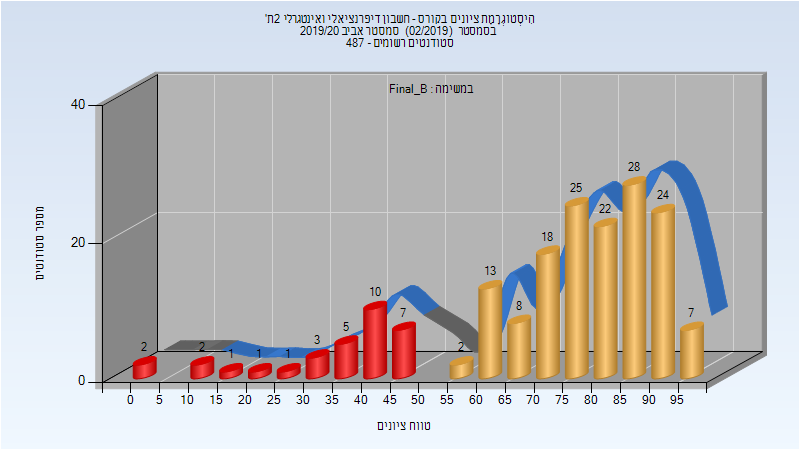
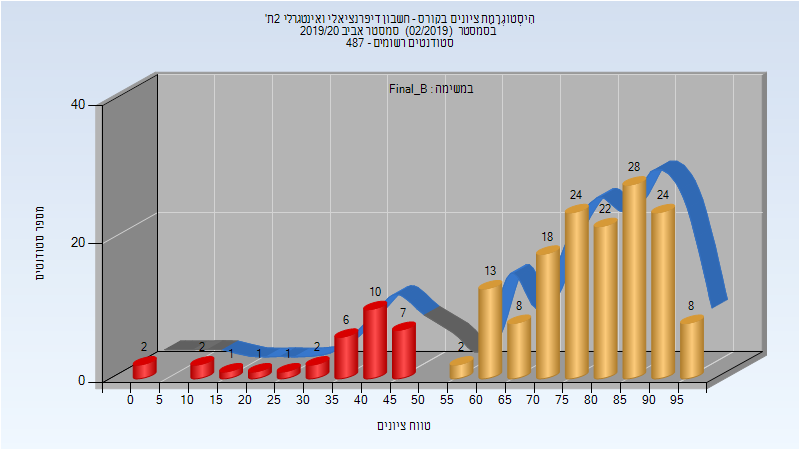
Deploy michael-maltsev/technion-histograms to github.com/michael-maltsev/technion-histograms.git:gh-pages

diff --git a/104223/index.html b/104223/index.html
@@ -2375,7 +2375,7 @@
 <td>84</td>
 <td>27</td>
 <td>98</td>
-<td>73.07</td>
+<td>73.023</td>
 <td>77</td>
 </tr>
 </tbody>
@@ -2401,7 +2401,33 @@
 <td>95</td>
 <td>32</td>
 <td>100</td>
-<td>79.163</td>
+<td>79.093</td>
+<td>83</td>
+</tr>
+</tbody>
+</table>
+<h3>סופי</h3>
+<p><img src="201903/Finals.png" alt="201903 Finals" /></p>
+<table>
+<thead>
+<tr>
+<th>סטודנטים</th>
+<th>עברו/נכשלו</th>
+<th>אחוז עוברים</th>
+<th>ציון מינימלי</th>
+<th>ציון מקסימלי</th>
+<th>ממוצע</th>
+<th>חציון</th>
+</tr>
+</thead>
+<tbody>
+<tr>
+<td>43</td>
+<td>41/2</td>
+<td>95</td>
+<td>32</td>
+<td>100</td>
+<td>79.093</td>
 <td>83</td>
 </tr>
 </tbody>

diff --git a/104013/index.html b/104013/index.html
@@ -2105,8 +2105,8 @@
 <td>77</td>
 <td>2</td>
 <td>98</td>
-<td>68.106</td>
-<td>71</td>
+<td>68.235</td>
+<td>72</td>
 </tr>
 </tbody>
 </table>
@@ -2131,7 +2131,7 @@
 <td>82</td>
 <td>2</td>
 <td>98</td>
-<td>72.268</td>
+<td>72.369</td>
 <td>78</td>
 </tr>
 </tbody>

diff --git a/104223/README.md b/104223/README.md
@@ -746,7 +746,7 @@
 
 | סטודנטים | עברו/נכשלו | אחוז עוברים | ציון מינימלי | ציון מקסימלי | ממוצע | חציון |
 | ---- | ---- | ---- | ---- | ---- | ---- | ---- |
-| 43 | 36/7 | 84 | 27 | 98 | 73.07 | 77 |
+| 43 | 36/7 | 84 | 27 | 98 | 73.023 | 77 |
 
 ### סופי מועד א'
 
@@ -754,5 +754,13 @@
 
 | סטודנטים | עברו/נכשלו | אחוז עוברים | ציון מינימלי | ציון מקסימלי | ממוצע | חציון |
 | ---- | ---- | ---- | ---- | ---- | ---- | ---- |
-| 43 | 41/2 | 95 | 32 | 100 | 79.163 | 83 |
+| 43 | 41/2 | 95 | 32 | 100 | 79.093 | 83 |
+
+### סופי
+
+![201903 Finals](201903/Finals.png)
+
+| סטודנטים | עברו/נכשלו | אחוז עוברים | ציון מינימלי | ציון מקסימלי | ממוצע | חציון |
+| ---- | ---- | ---- | ---- | ---- | ---- | ---- |
+| 43 | 41/2 | 95 | 32 | 100 | 79.093 | 83 |
 

diff --git a/104013/README.md b/104013/README.md
@@ -662,7 +662,7 @@
 
 | סטודנטים | עברו/נכשלו | אחוז עוברים | ציון מינימלי | ציון מקסימלי | ממוצע | חציון |
 | ---- | ---- | ---- | ---- | ---- | ---- | ---- |
-| 179 | 137/42 | 77 | 2 | 98 | 68.106 | 71 |
+| 179 | 137/42 | 77 | 2 | 98 | 68.235 | 72 |
 
 ### סופי מועד ב'
 
@@ -670,7 +670,7 @@
 
 | סטודנטים | עברו/נכשלו | אחוז עוברים | ציון מינימלי | ציון מקסימלי | ממוצע | חציון |
 | ---- | ---- | ---- | ---- | ---- | ---- | ---- |
-| 179 | 147/32 | 82 | 2 | 98 | 72.268 | 78 |
+| 179 | 147/32 | 82 | 2 | 98 | 72.369 | 78 |
 
 ### סופי
 
